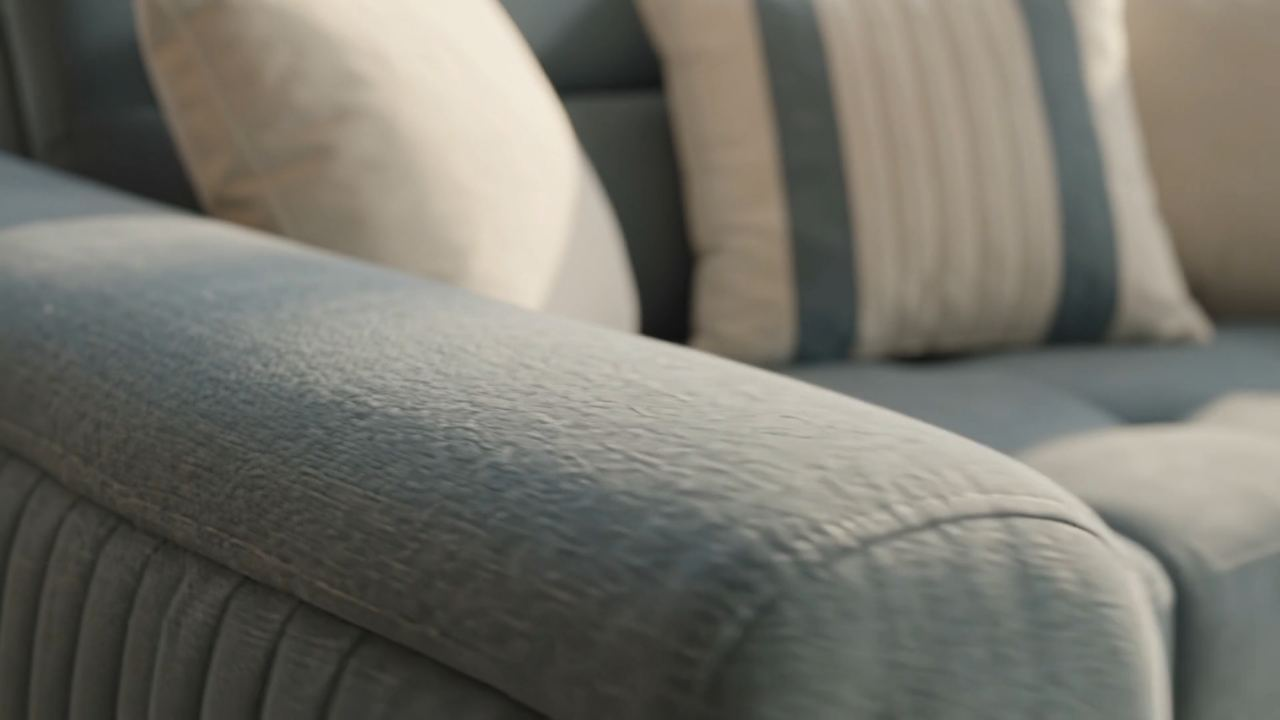
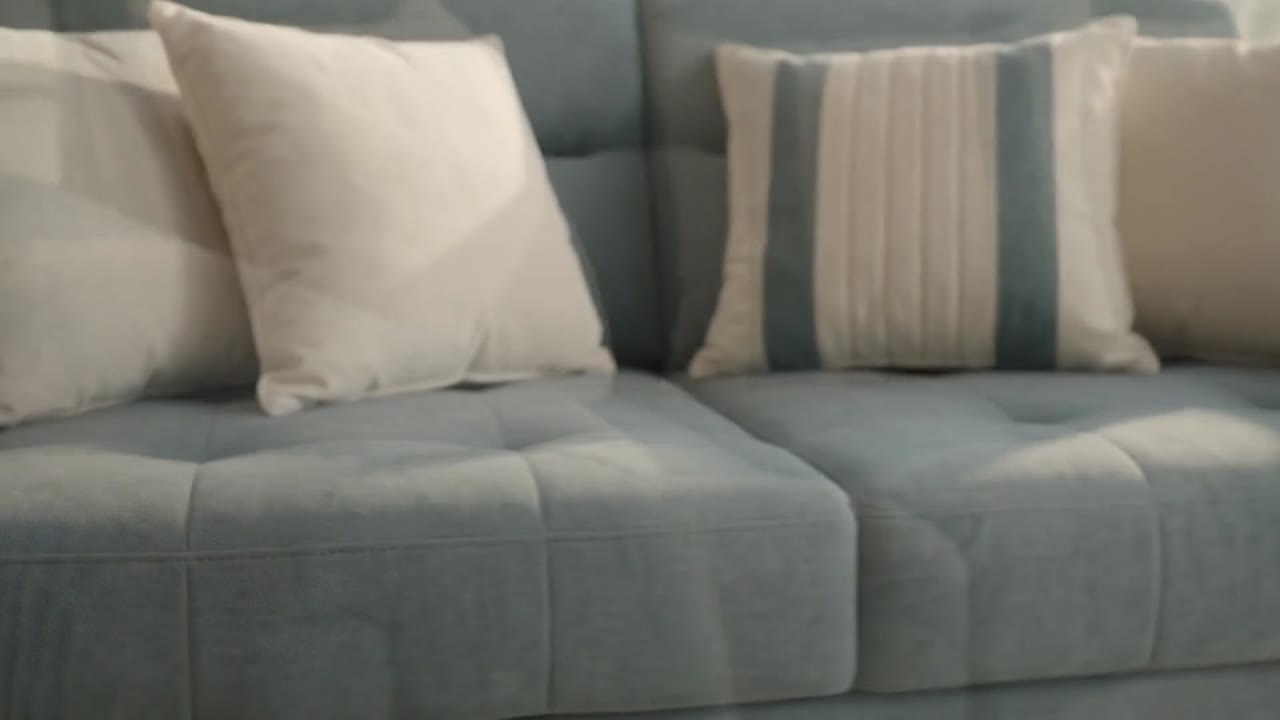
feat: add new video assets and enhance media handling in components; update styles and responsiveness

diff --git a/src/components/ui/image-gallery.tsx b/src/components/ui/image-gallery.tsx
@@ -1,5 +1,6 @@
-import { useRef, useState, type CSSProperties, type MouseEvent, type PointerEvent, type ReactNode } from 'react'
+import { useRef, useState, type CSSProperties, type MouseEvent, type PointerEvent, type ReactNode, type RefObject } from 'react'
 import { srcSetFor } from '@/lib/images'
+import { useMediaQuery } from '@/lib/useMediaQuery'
 import { cn } from '@/lib/utils'
 
 const DRAG_THRESHOLD = 6
@@ -23,23 +24,18 @@ interface ImageGalleryProps {
 }
 
 /**
- * Endless strip of frames drifting left → right. Hovering a frame expands that piece while the
- * strip keeps moving; the rest stay as slivers. Static for reduced-motion users.
+ * Pointer-drag for a doubled marquee track: the offset wraps on one item-set width so the loop
+ * stays seamless, the CSS animation pauses mid-drag, and the click that ends a drag is swallowed.
  */
-export default function ImageGallery({ items, onSelect, action, duration = 55, className }: ImageGalleryProps) {
-  const [active, setActive] = useState<string | null>(null)
+function useDragTrack(trackRef: RefObject<HTMLUListElement | null>) {
   const [offset, setOffset] = useState(0)
   const [dragging, setDragging] = useState(false)
-  const trackRef = useRef<HTMLUListElement>(null)
   const drag = useRef<{ startX: number; startOffset: number; moved: boolean } | null>(null)
-  const loop = [...items, ...items]
 
-  // Drag offset wraps on one item-set width so the doubled strip stays seamless; kept in (-half, 0].
   const wrap = (x: number) => {
     const half = (trackRef.current?.scrollWidth ?? 0) / 2
     return half ? x - Math.ceil(x / half) * half : x
   }
-
   const onPointerDown = (e: PointerEvent<HTMLDivElement>) => {
     if (e.pointerType === 'mouse' && e.button !== 0) return
     drag.current = { startX: e.clientX, startOffset: offset, moved: false }
@@ -60,7 +56,6 @@ export default function ImageGallery({ items, onSelect, action, duration = 55, c
     drag.current = null
     setDragging(false)
   }
-  // Swallow the click that follows a drag so frames don't open/select.
   const onClickCapture = (e: MouseEvent) => {
     if (dragging) {
       e.preventDefault()
@@ -68,16 +63,119 @@ export default function ImageGallery({ items, onSelect, action, duration = 55, c
     }
   }
 
+  return {
+    offset,
+    dragging,
+    handlers: { onPointerDown, onPointerMove, onPointerUp, onPointerCancel: onPointerUp, onClickCapture },
+  }
+}
+
+/**
+ * Endless strip of frames drifting left → right. Hovering a frame expands that piece while the
+ * strip keeps moving; the rest stay as slivers. Static for reduced-motion users.
+ * Phones get two counter-drifting rows (top → right, bottom → left) with tap-to-select frames.
+ */
+export default function ImageGallery({ items, onSelect, action, duration = 55, className }: ImageGalleryProps) {
+  const smUp = useMediaQuery('(min-width: 640px)')
+  if (!smUp) return <PhoneRows items={items} onSelect={onSelect} action={action} className={className} />
+  return <DriftStrip items={items} onSelect={onSelect} action={action} duration={duration} className={className} />
+}
+
+/** Phones: two marquee rows moving in opposite directions, each draggable. Rows are doubled so the loop is seamless. */
+function PhoneRows({ items, onSelect, action, className }: Omit<ImageGalleryProps, 'duration'>) {
+  const half = Math.ceil(items.length / 2)
+  return (
+    <div className={cn('flex flex-col gap-3', className)} role="list" aria-label="Signature pieces">
+      <PhoneRow items={items.slice(0, half)} dir="ltr" indexOffset={0} onSelect={onSelect} action={action} />
+      <PhoneRow items={items.slice(half)} dir="rtl" indexOffset={half} onSelect={onSelect} action={action} />
+    </div>
+  )
+}
+
+function PhoneRow({
+  items,
+  dir,
+  indexOffset,
+  onSelect,
+  action,
+}: Pick<ImageGalleryProps, 'items' | 'onSelect' | 'action'> & { dir: 'ltr' | 'rtl'; indexOffset: number }) {
+  const trackRef = useRef<HTMLUListElement>(null)
+  const { offset, dragging, handlers } = useDragTrack(trackRef)
+  const loop = [...items, ...items]
+  return (
+    <div
+      role="listitem"
+      className={cn('w-full overflow-hidden select-none', dragging ? 'cursor-grabbing' : 'cursor-grab')}
+      style={{ touchAction: 'pan-y' }}
+      {...handlers}
+    >
+      <div style={{ transform: `translateX(${offset}px)` }} className="w-max will-change-transform">
+        <ul
+          ref={trackRef}
+          className={cn(
+            'flex w-max gap-3 will-change-transform',
+            dir === 'ltr' ? 'motion-safe:animate-[gallery-ltr_var(--dur)_linear_infinite]' : 'motion-safe:animate-[gallery-rtl_var(--dur)_linear_infinite]'
+          )}
+          style={{ '--dur': `${items.length * 6}s`, animationPlayState: dragging ? 'paused' : undefined } as CSSProperties}
+        >
+          {loop.map((it, i) => {
+            const clone = i >= items.length
+            const index = String(indexOffset + (i % items.length) + 1).padStart(2, '0')
+            return (
+              <li
+                key={`${it.id}-${i}`}
+                aria-hidden={clone || undefined}
+                className="relative aspect-[4/5] w-[42vw] max-w-[13rem] shrink-0 overflow-hidden rounded-sm bg-brand-ivory-deep"
+              >
+                <button
+                  type="button"
+                  tabIndex={clone ? -1 : 0}
+                  onClick={() => onSelect?.(it)}
+                  aria-label={`Request details for ${it.title}`}
+                  className="absolute inset-0 block h-full w-full text-left focus-visible:outline-offset-[-4px]"
+                >
+                  <img
+                    src={it.src}
+                    srcSet={srcSetFor(it.src)}
+                    sizes="42vw"
+                    alt={it.alt}
+                    /* Marquee frames enter from off-screen; lazy loading would leave them blank. */
+                    loading="eager"
+                    decoding="async"
+                    draggable={false}
+                    className="h-full w-full object-cover"
+                  />
+                  <div className="pointer-events-none absolute inset-0 bg-gradient-to-t from-brand-ink/75 via-brand-ink/10 to-transparent" />
+                  <span className="absolute inset-x-0 bottom-0 flex flex-col gap-1 p-3 text-brand-ivory">
+                    <span className="eyebrow text-[0.6rem] text-brand-gold">
+                      {index}
+                      {it.meta ? ` / ${it.meta}` : ''}
+                    </span>
+                    <span className="block truncate font-serif text-lg leading-tight">{it.title}</span>
+                    {action && <span className="eyebrow mt-1 inline-flex items-center gap-1 text-[0.6rem] text-brand-ivory/80">{action}</span>}
+                  </span>
+                </button>
+              </li>
+            )
+          })}
+        </ul>
+      </div>
+    </div>
+  )
+}
+
+function DriftStrip({ items, onSelect, action, duration = 55, className }: ImageGalleryProps) {
+  const [active, setActive] = useState<string | null>(null)
+  const trackRef = useRef<HTMLUListElement>(null)
+  const { offset, dragging, handlers } = useDragTrack(trackRef)
+  const loop = [...items, ...items]
+
   return (
     <div
       className={cn('relative w-full overflow-hidden select-none', dragging ? 'cursor-grabbing' : 'cursor-grab', className)}
       style={{ touchAction: 'pan-y' }}
       onMouseLeave={() => setActive(null)}
-      onPointerDown={onPointerDown}
-      onPointerMove={onPointerMove}
-      onPointerUp={onPointerUp}
-      onPointerCancel={onPointerUp}
-      onClickCapture={onClickCapture}
+      {...handlers}
     >
       <div style={{ transform: `translateX(${offset}px)` }} className="w-max will-change-transform">
       <ul

diff --git a/src/components/common/PageHero.tsx b/src/components/common/PageHero.tsx
@@ -1,6 +1,8 @@
 import type { ReactNode } from 'react'
 import { motion, useReducedMotion } from 'motion/react'
 import { luxuryEase } from '@/components/common/Reveal'
+import { SmartVideo } from '@/components/common/SmartVideo'
+import type { VideoAsset } from '@/data/assets'
 import { cn } from '@/lib/utils'
 import { srcSetFor } from '@/lib/images'
 
@@ -10,25 +12,40 @@ interface PageHeroProps {
   body?: string
   image?: string
   imageAlt?: string
+  /** Ambient film instead of a still; takes precedence over `image`. */
+  video?: VideoAsset
   /** Tailwind object-position class for the background image. */
   imagePosition?: string
+  /** Fill the full viewport height instead of the default 72svh. */
+  fullscreen?: boolean
   children?: ReactNode
   className?: string
 }
 
-/** Dark editorial header for inner pages. Full-bleed image variant when `image` is provided. */
-export function PageHero({ eyebrow, title, body, image, imageAlt = '', imagePosition = 'object-center', children, className }: PageHeroProps) {
+/** Dark editorial header for inner pages. Full-bleed image or video variant when media is provided. */
+export function PageHero({ eyebrow, title, body, image, imageAlt = '', video, imagePosition = 'object-center', fullscreen, children, className }: PageHeroProps) {
   const reduce = useReducedMotion()
   const rise = (delay: number) => ({
     initial: reduce ? false : { opacity: 0, y: 28 },
     animate: { opacity: 1, y: 0 },
     transition: { duration: 1, delay, ease: luxuryEase },
   })
+  const media = Boolean(video || image)
+  const minH = media ? (fullscreen ? 'min-h-[100svh]' : 'min-h-[72svh]') : ''
 
   return (
-    <section className={cn('relative isolate overflow-hidden bg-brand-teal-deep text-brand-ivory', image ? 'min-h-[72svh]' : '', className)}>
-      {image && (
-        <>
+    <section className={cn('relative isolate overflow-hidden bg-brand-teal-deep text-brand-ivory', minH, className)}>
+      {video ? (
+        <motion.div
+          className="absolute inset-0 -z-10"
+          initial={reduce ? false : { scale: 1.1, opacity: 0 }}
+          animate={{ scale: 1, opacity: 1 }}
+          transition={{ duration: 2, ease: luxuryEase }}
+        >
+          <SmartVideo asset={video} lazy={false} className="h-full w-full object-cover" />
+        </motion.div>
+      ) : (
+        image && (
           <motion.img
             src={image}
             srcSet={srcSetFor(image)}
@@ -41,12 +58,16 @@ export function PageHero({ eyebrow, title, body, image, imageAlt = '', imagePosi
             animate={{ scale: 1, opacity: 1 }}
             transition={{ duration: 2, ease: luxuryEase }}
           />
+        )
+      )}
+      {media && (
+        <>
           <div className="absolute inset-0 -z-10 bg-gradient-to-t from-brand-ink/95 via-brand-ink/65 to-brand-ink/25" />
           {/* Extra left-side scrim keeps type readable over signage / bright facades */}
           <div className="absolute inset-0 -z-10 bg-gradient-to-r from-brand-ink/60 via-brand-ink/20 to-transparent" />
         </>
       )}
-      <div className={cn('container-x mx-auto flex max-w-[1600px] flex-col justify-end pt-36 pb-14 sm:pt-44 sm:pb-20', image && 'min-h-[72svh]')}>
+      <div className={cn('container-x mx-auto flex max-w-[1600px] flex-col justify-end pt-36 pb-14 sm:pt-44 sm:pb-20', minH, fullscreen && 'pb-[max(3.5rem,env(safe-area-inset-bottom))] sm:pb-24')}>
         <motion.p {...rise(0.1)} className="eyebrow text-brand-gold-soft">
           {eyebrow}
         </motion.p>

diff --git a/src/components/ui/scroll-expand-media.tsx b/src/components/ui/scroll-expand-media.tsx
@@ -10,6 +10,8 @@ gsap.registerPlugin(ScrollTrigger)
 
 export interface ScrollExpandMediaProps {
   media: VideoAsset
+  /** Optional second film that cross-fades in once the frame is full-bleed. */
+  mediaSecond?: VideoAsset
   /** Two-part title; halves slide apart as the media grows. */
   title: [string, string]
   eyebrow?: string
@@ -34,6 +36,7 @@ export interface ScrollExpandMediaProps {
  */
 export default function ScrollExpandMedia({
   media,
+  mediaSecond,
   title,
   eyebrow,
   scrollHint = 'Scroll to expand',
@@ -55,7 +58,7 @@ export default function ScrollExpandMedia({
       const stage = el.querySelector<HTMLElement>('[data-stage]')
       const frame = el.querySelector<HTMLElement>('[data-frame]')
       const shade = el.querySelector<HTMLElement>('[data-shade]')
-      const veil = el.querySelector<HTMLElement>('[data-veil]')
+      const second = el.querySelector<HTMLElement>('[data-media-second]')
       const left = el.querySelector<HTMLElement>('[data-title-left]')
       const right = el.querySelector<HTMLElement>('[data-title-right]')
       const hint = el.querySelector<HTMLElement>('[data-hint]')
@@ -92,13 +95,13 @@ export default function ScrollExpandMedia({
         { width: stageW, height: stageH, duration: 1, ease: 'power1.inOut' },
         0
       )
-        .fromTo(shade, { opacity: veil ? 0.1 : 0.35 }, { opacity: 0.6, duration: 1 }, 0)
+        .fromTo(shade, { opacity: 0.35 }, { opacity: 0.6, duration: 1 }, 0)
         .to(left, { xPercent: -60, opacity: 0, duration: 0.9, ease: 'power1.in' }, 0.05)
         .to(right, { xPercent: 60, opacity: 0, duration: 0.9, ease: 'power1.in' }, 0.05)
         .to(hint, { opacity: 0, duration: 0.3 }, 0)
         .to(eyebrowEl, { opacity: 0, duration: 0.3 }, 0.2)
-      // Light tone: the small frame is frosted so dark type reads over it; the veil lifts with the title.
-      if (veil) tl.fromTo(veil, { opacity: 0.72 }, { opacity: 0, duration: 0.85, ease: 'power2.in' }, 0.05)
+      // Second film dissolves in as the frame reaches full-bleed, so the reveal plays over fresh footage.
+      if (second) tl.fromTo(second, { opacity: 0 }, { opacity: 1, duration: 0.5, ease: 'power1.inOut' }, 0.85)
 
       // Act II — reveal content (1 → 2)
       tl.fromTo(content, { opacity: 0 }, { opacity: 1, duration: 0.2 }, 1)
@@ -160,8 +163,12 @@ export default function ScrollExpandMedia({
           style={{ width: 'min(62vw, 420px)', height: 'min(42vh, 520px)' }}
         >
           <SmartVideo asset={media} />
-          <div data-shade className="absolute inset-0 bg-brand-ink" style={{ opacity: light ? 0.1 : 0.35 }} />
-          {light && <div data-veil className="absolute inset-0 bg-brand-ivory" style={{ opacity: 0.72 }} />}
+          {mediaSecond && (
+            <div data-media-second className="absolute inset-0 opacity-0">
+              <SmartVideo asset={mediaSecond} />
+            </div>
+          )}
+          <div data-shade className="absolute inset-0 bg-brand-ink" style={{ opacity: 0.35 }} />
         </div>
 
         {/* Split title */}

diff --git a/src/data/assets.ts b/src/data/assets.ts
@@ -46,7 +46,9 @@ export const showroomVideos = {
   blueChairs: { src: '/videos/showroom/showroom-blue-chairs.mp4', poster: '/images/posters/showroom-blue-chairs.jpg', orientation: 'portrait', durationSec: 22 } satisfies VideoAsset,
   oliveSofaDetail: { src: '/videos/showroom/detail-olive-sofa.mp4', poster: '/images/posters/detail-olive-sofa.jpg', orientation: 'portrait', durationSec: 40 } satisfies VideoAsset,
   sofaFabricDetail: { src: '/videos/showroom/detail-sofa-fabric.mp4', poster: '/images/posters/detail-sofa-fabric.jpg', orientation: 'landscape', durationSec: 10 } satisfies VideoAsset,
+  emeraldBedDetail: { src: '/videos/showroom/detail-emerald-bed.mp4', poster: '/images/posters/detail-emerald-bed.jpg', orientation: 'landscape', durationSec: 10 } satisfies VideoAsset,
   luxuriousModernReel: { src: '/videos/showroom/reel-luxurious-modern.mp4', poster: '/images/posters/reel-luxurious-modern.jpg', orientation: 'portrait', durationSec: 12 } satisfies VideoAsset,
+  commercial: { src: '/videos/showroom/commercial-1.mp4', poster: '/images/posters/commercial-1.jpg', orientation: 'landscape', durationSec: 10 } satisfies VideoAsset,
 }
 
 export const brandImages = {

diff --git a/src/components/common/IntroLoader.tsx b/src/components/common/IntroLoader.tsx
@@ -1,5 +1,4 @@
 import { useCallback, useEffect, useState } from 'react'
-import { useLocation } from 'react-router'
 import { AnimatePresence, motion, stagger, useAnimate, useReducedMotion } from 'motion/react'
 
 /**
@@ -33,12 +32,11 @@ const LEFT_COUNT = 3 // H E A from the left, V E N from the right
 const martLetters = 'FURNITURE MART'.split('')
 const MART_LEFT_COUNT = 7 // "FURNITU" from the left, "RE MART" from the right
 
-/** `done` is true only for the route the intro has already finished on; a new pathname re-arms it. */
+/** Plays once per full page load (reload / first visit); client-side route changes never re-arm it. */
 export function useIntroDone() {
-  const { pathname } = useLocation()
-  const [doneFor, setDoneFor] = useState<string | null>(null)
-  const markDone = useCallback(() => setDoneFor(pathname), [pathname])
-  return [doneFor === pathname, markDone] as const
+  const [done, setDone] = useState(false)
+  const markDone = useCallback(() => setDone(true), [])
+  return [done, markDone] as const
 }
 
 interface IntroLoaderProps {

diff --git a/src/pages/ShopPage.tsx b/src/pages/ShopPage.tsx
@@ -10,7 +10,7 @@ import { FinalCTASection } from '@/components/sections/FinalCTASection'
 import { Button } from '@/components/ui/button'
 import { Dialog, DialogContent, DialogDescription, DialogTitle } from '@/components/ui/dialog'
 import { Input } from '@/components/ui/input'
-import { img, pageHeroImages } from '@/data/assets'
+import { img, pageHeroImages, showroomVideos } from '@/data/assets'
 import { categories, categoryById, products, type CategoryId, type Product } from '@/data/catalog'
 import { site } from '@/data/site'
 import { usePageMeta } from '@/lib/usePageMeta'
@@ -146,6 +146,7 @@ export function ShopPage() {
           activeCat?.body ??
           'Living, bedroom, dining and office pieces from the Heaven studio — each one a starting point for something made to your measure.'
         }
+        video={activeCat ? undefined : showroomVideos.commercial}
         image={heroImage.src}
         imageAlt={heroImage.alt}
       />

diff --git a/src/components/sections/SignatureSection.tsx b/src/components/sections/SignatureSection.tsx
@@ -34,7 +34,9 @@ export function SignatureSection() {
         </div>
         <Reveal delay={0.2} className="flex flex-col items-start gap-4 md:items-end">
           <p className="max-w-xs text-[0.98rem] leading-relaxed text-brand-stone md:text-right">
-            The strip drifts on its own — drag to explore, hover a frame to open it. Every piece can be re-sized, re-covered and re-finished for your room.
+            <span className="sm:hidden">Tap a piece to request details. </span>
+            <span className="hidden sm:inline">The strip drifts on its own — drag to explore, hover a frame to open it. </span>
+            Every piece can be re-sized, re-covered and re-finished for your room.
           </p>
           <Button asChild variant="text-link">
             <Link to="/shop">

diff --git a/src/pages/VisitPage.tsx b/src/pages/VisitPage.tsx
@@ -83,6 +83,7 @@ export function VisitPage() {
         image={brandImages.showroomExterior}
         imageAlt="Heaven Furniture Mart showroom on Agrabad Access Road"
         imagePosition="object-[50%_85%] sm:object-center"
+        fullscreen
       >
         <div className="flex flex-col gap-3 sm:flex-row">
           <Button asChild variant="gold" size="pill">

diff --git a/src/index.css b/src/index.css
@@ -262,6 +262,10 @@
   from { transform: translateX(-50%); }
   to { transform: translateX(0); }
 }
+@keyframes gallery-rtl {
+  from { transform: translateX(0); }
+  to { transform: translateX(-50%); }
+}
 
 /* Soft gold halo for the assistant trigger — transform/opacity only */
 @keyframes assistant-halo {

diff --git a/src/components/sections/WhyHeavenSection.tsx b/src/components/sections/WhyHeavenSection.tsx
@@ -16,6 +16,7 @@ export function WhyHeavenSection() {
       </h2>
       <ScrollExpandMedia
         media={film}
+        mediaSecond={showroomVideos.emeraldBedDetail}
         eyebrow="06 — Why Heaven"
         title={['Why homeowners', 'choose Heaven.']}
         scrollHint="Scroll to open the showroom"
